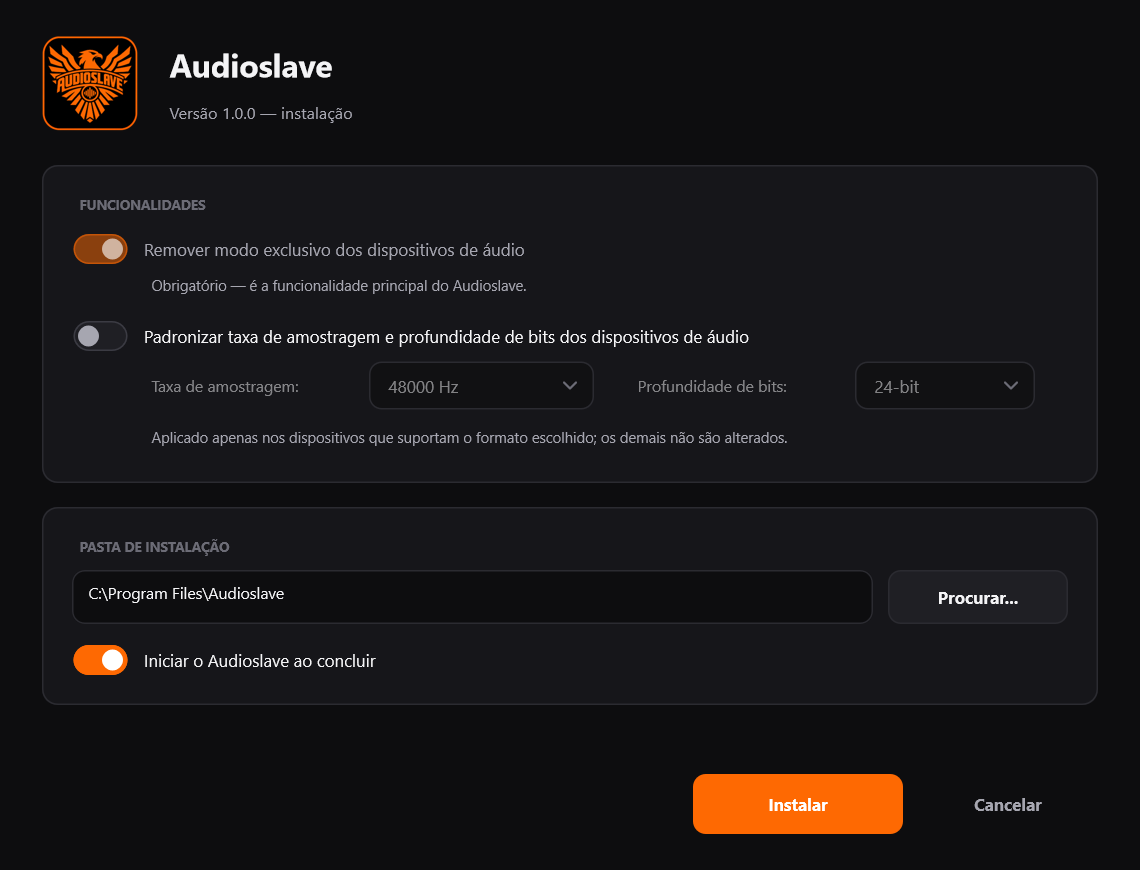
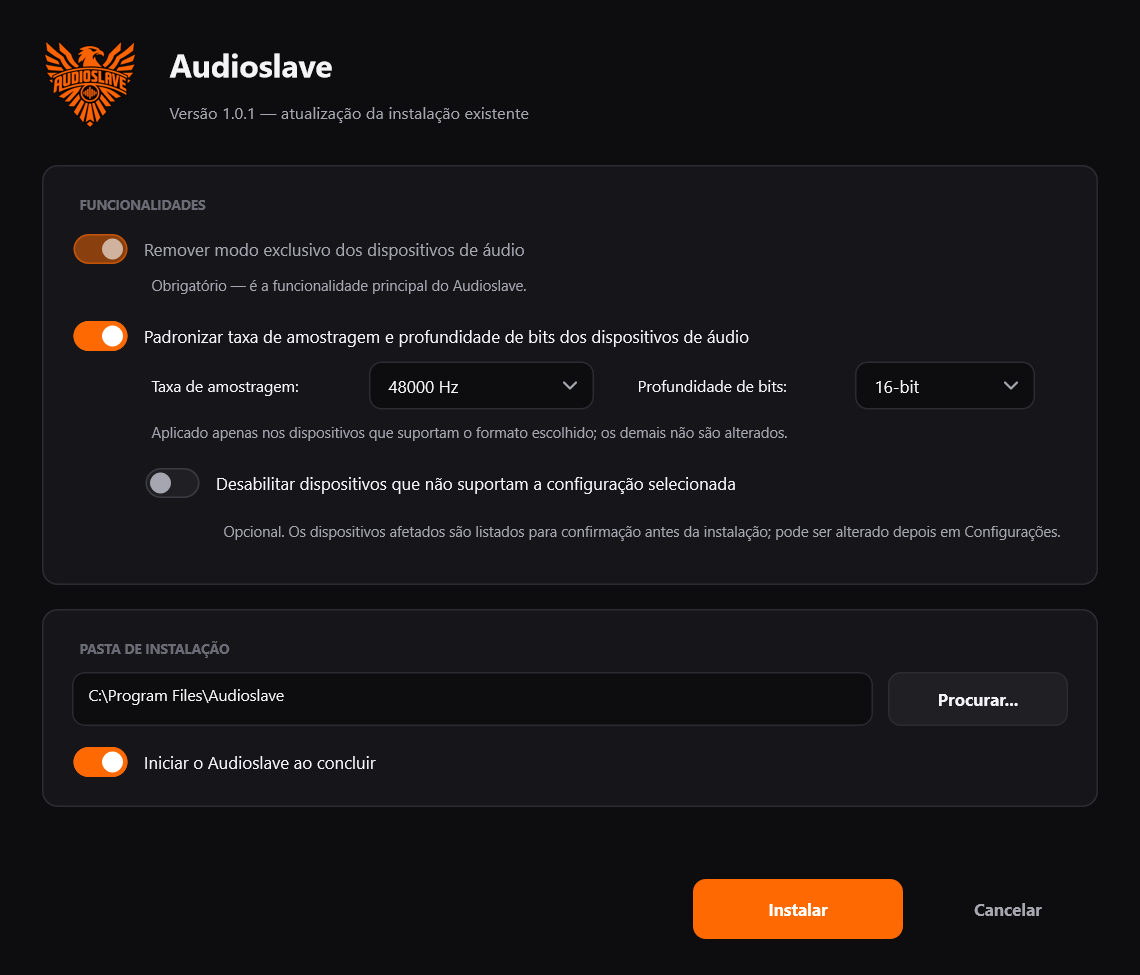
Docs: Update the UI screenshots
The screenshot tool also renders the settings page and the bit-depth, disable and rename dialogs, with sample devices that show every compatibility state.

diff --git a/tools/Screenshots.cpp b/tools/Screenshots.cpp
@@ -6,6 +6,7 @@
 
 #include "platform/windows/WinCommon.h"
 #include "app/Dialog.h"
+#include "app/SettingsReport.h"
 #include "app/StatusWindow.h"
 #include "app/Theme.h"
 #include "app/TrayController.h"
@@ -21,12 +22,14 @@ namespace
 ipc::StatusSnapshot sampleStatus (EngineState state)
 {
     ipc::StatusSnapshot s;
-    s.version = "1.0.0";
+    s.version = "1.0.1";
     s.mode = "service";
     s.state = state;
     s.exclusiveProtection = true;
     s.formatStandardization = true;
     s.formatTarget = "48000 Hz / 24-bit";
+    s.sampleRate = 48000;
+    s.bitDepth = 24;
     s.hasScanned = true;
     s.lastScanTime = juce::Time::getCurrentTime();
     s.lastScan.endpointsScanned = 9;
@@ -41,16 +44,21 @@ ipc::StatusSnapshot sampleStatus (EngineState state)
         bool isDefault;
         const char* exclusive;
         const char* format;
+        Compatibility compatibility;
+        const char* capabilities;
+        bool disabledByAudioslave;
     };
+    const auto ok = Compatibility::compatible;
+    const auto none = Compatibility::unknown;
     const Row rows[] = {
-        { "Speakers / Headphones (Realtek Audio)", EndpointFlow::render, EndpointState::active, true, "blocked", "48000 Hz / 24-bit" },
-        { "Speakers 01 (ASIOVADPRO Driver)", EndpointFlow::render, EndpointState::active, false, "blocked", "48000 Hz / 24-bit" },
-        { "Speakers 02 (ASIOVADPRO Driver)", EndpointFlow::render, EndpointState::active, false, "blocked", "48000 Hz / 24-bit" },
-        { "Fones de ouvido (JBL Tune 520BT)", EndpointFlow::render, EndpointState::unplugged, false, "blocked", "" },
-        { "Microphone (Realtek Audio)", EndpointFlow::capture, EndpointState::active, true, "blocked", "48000 Hz / 24-bit" },
-        { "Webcam 1 (NDI Webcam Audio)", EndpointFlow::capture, EndpointState::active, false, "blocked", "44100 Hz / 16-bit" },
-        { "Mix 01 (ASIOVADPRO Driver)", EndpointFlow::capture, EndpointState::active, false, "allowed", "48000 Hz / 24-bit" },
-        { "Headset (QCY H2 Pro)", EndpointFlow::capture, EndpointState::unplugged, false, "blocked", "" },
+        { "Speakers / Headphones (Realtek Audio)", EndpointFlow::render, EndpointState::active, true, "blocked", "48000 Hz / 24-bit", ok, "48000:16/24", false },
+        { "Monitor Estúdio (ASIOVADPRO Driver)", EndpointFlow::render, EndpointState::active, false, "blocked", "48000 Hz / 24-bit", ok, "44100:16/24/32;48000:16/24/32", false },
+        { "HDMI (Intel Display Audio)", EndpointFlow::render, EndpointState::disabled, false, "blocked", "", Compatibility::rateUnsupported, "44100:16", true },
+        { "Fones de ouvido (JBL Tune 520BT)", EndpointFlow::render, EndpointState::unplugged, false, "blocked", "", none, "", false },
+        { "Microphone (Realtek Audio)", EndpointFlow::capture, EndpointState::active, true, "blocked", "48000 Hz / 24-bit", ok, "44100:16/24;48000:16/24", false },
+        { "Webcam 1 (NDI Webcam Audio)", EndpointFlow::capture, EndpointState::active, false, "blocked", "48000 Hz / 16-bit", Compatibility::depthUnsupported, "44100:16;48000:16", false },
+        { "Mix 01 (ASIOVADPRO Driver)", EndpointFlow::capture, EndpointState::active, false, "allowed", "48000 Hz / 24-bit", ok, "48000:16/24/32", false },
+        { "Headset (QCY H2 Pro)", EndpointFlow::capture, EndpointState::unplugged, false, "blocked", "", none, "", false },
     };
     for (const auto& r : rows)
     {
@@ -61,6 +69,10 @@ ipc::StatusSnapshot sampleStatus (EngineState state)
         e.isDefault = r.isDefault;
         e.exclusive = r.exclusive;
         e.format = r.format;
+        e.compatibility = r.compatibility;
+        e.capabilities = r.capabilities;
+        e.disabledByAudioslave = r.disabledByAudioslave;
+        e.customName = e.name.startsWith (juce::String::fromUTF8 ("Monitor Estúdio"));
         s.endpoints.push_back (e);
     }
     return s;
@@ -154,6 +166,8 @@ public:
             StatusWindow window ({}, {});
             window.update (controllerFor (EngineState::running));
             save (window.createComponentSnapshot (window.getLocalBounds(), true, 1.5f), out_.getChildFile ("status-window.png"));
+            window.showSettings (true);
+            save (window.createComponentSnapshot (window.getLocalBounds(), true, 1.5f), out_.getChildFile ("settings.png"));
         }
         {
             setup::Options options;
@@ -221,13 +235,72 @@ private:
                 theme::showDialog (std::move (o));
                 break;
             }
+            case 4:
+            case 5:
+            {
+                // The settings preview: bit-depth limit (ignore) and disable confirmation.
+                ipc::AudioSettings settings;
+                settings.formatStandardization = true;
+                settings.disableIncompatibleDevices = step == 5;
+                std::vector<DeviceReport> devices;
+                for (const auto& e : sampleStatus (EngineState::running).endpoints)
+                {
+                    if (e.state == EndpointState::unplugged)
+                        continue;
+                    DeviceReport d;
+                    d.name = e.name;
+                    d.compatibility = e.compatibility;
+                    d.capabilities = FormatCapabilities::deserialise (e.capabilities);
+                    const bool bad = d.compatibility != Compatibility::compatible;
+                    d.action = ! bad ? DeviceAction::apply : step == 5 ? DeviceAction::disable : DeviceAction::ignore;
+                    devices.push_back (d);
+                }
+                const auto p = buildPreview (settings, devices);
+                theme::DialogOptions o;
+                o.icon = p.disablesDevices ? juce::MessageBoxIconType::WarningIcon : juce::MessageBoxIconType::QuestionIcon;
+                o.title = p.title;
+                o.message = p.message;
+                o.buttons = { "Continuar", "Cancelar" };
+                o.destructive = p.disablesDevices;
+                auto details = std::make_unique<juce::TextEditor>();
+                details->setMultiLine (true, true);
+                details->setReadOnly (true);
+                details->setFont (theme::font (13.5f));
+                details->setColour (juce::TextEditor::backgroundColourId, theme::surface);
+                details->setColour (juce::TextEditor::textColourId, theme::textDim);
+                details->setIndents (10, 8);
+                details->setText (p.details, false);
+                details->setSize (100, 240);
+                o.extra = std::move (details);
+                theme::showDialog (std::move (o));
+                break;
+            }
+            case 6:
+            {
+                theme::DialogOptions o;
+                o.icon = juce::MessageBoxIconType::QuestionIcon;
+                o.title = "Renomear dispositivo";
+                o.message = juce::String::fromUTF8 ("O nome é aplicado no Windows e mantido pelo Audioslave, mesmo que uma "
+                                                    "atualização do Windows ou do driver o redefina. O Windows exibe o nome "
+                                                    "seguido do adaptador, por exemplo \"Nome (Realtek Audio)\".");
+                o.buttons = { "Renomear", "Cancelar" };
+                auto editor = std::make_unique<juce::TextEditor>();
+                editor->setFont (theme::font (15.0f));
+                editor->setIndents (10, 8);
+                editor->setText (juce::String::fromUTF8 ("Monitor Estúdio"), false);
+                editor->setSize (100, 38);
+                o.extra = std::move (editor);
+                theme::showDialog (std::move (o));
+                break;
+            }
             default: break;
         }
     }
 
     void timerCallback() override
     {
-        static const char* names[] = { "tray-menu.png", "tray-menu-paused.png", "dialog-exit.png", "dialog-uninstall.png" };
+        static const char* names[] = { "tray-menu.png",       "tray-menu-paused.png",    "dialog-exit.png",  "dialog-uninstall.png",
+                                       "dialog-bit-depth.png", "dialog-disable.png", "dialog-rename.png" };
         auto& desktop = juce::Desktop::getInstance();
         bool captured = false;
         for (int i = 0; i < desktop.getNumComponents(); ++i)
@@ -247,7 +320,7 @@ private:
         if (auto* modal = juce::Component::getCurrentlyModalComponent())
             modal->exitModalState (-1);
 
-        if (++step_ < 4)
+        if (++step_ < 7)
         {
             showStep (step_);
             return;
